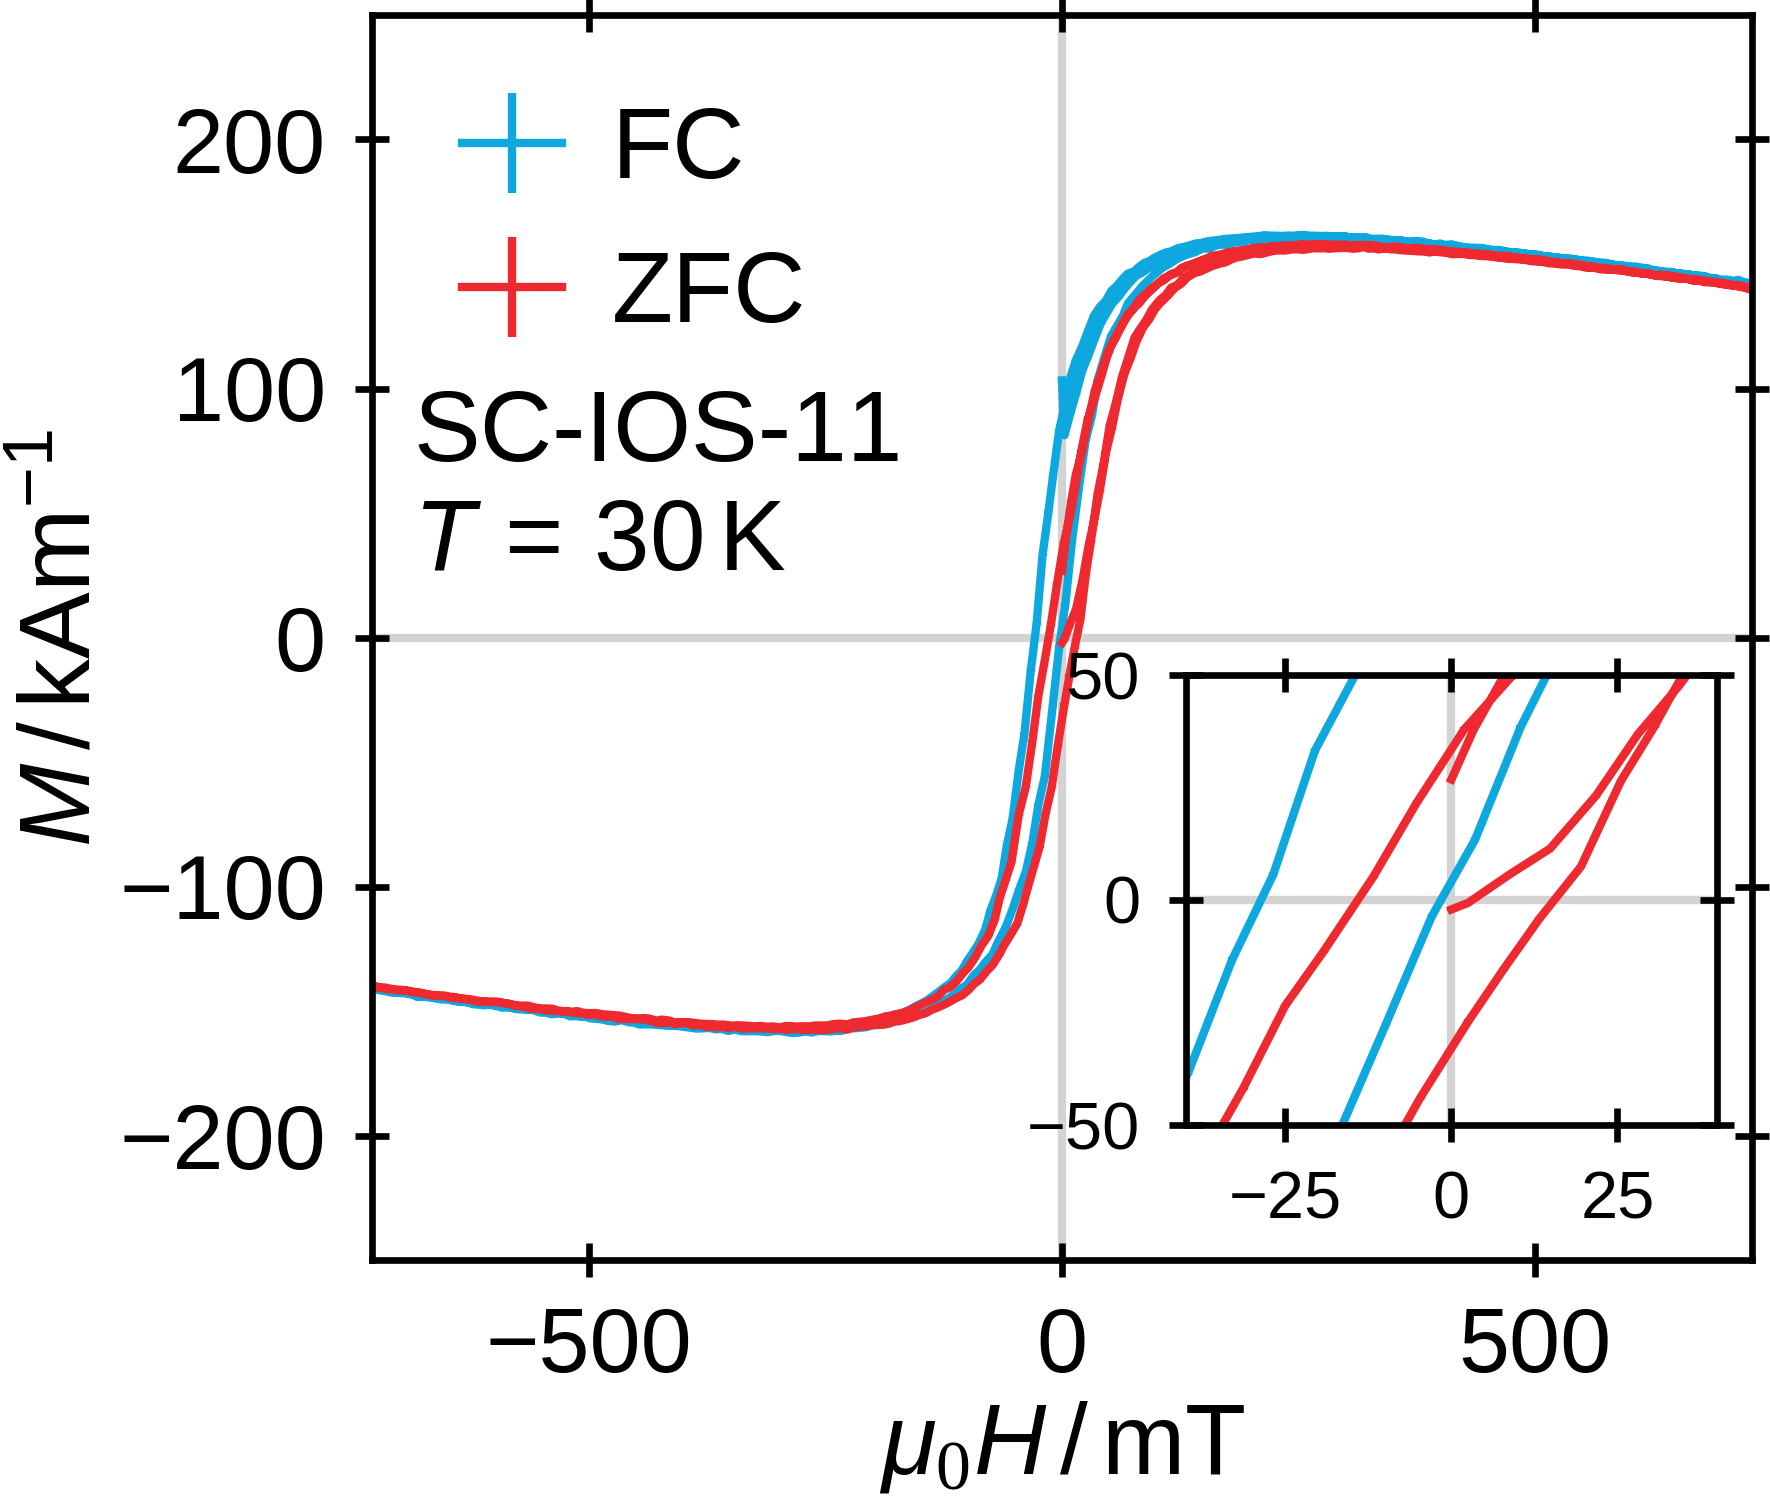
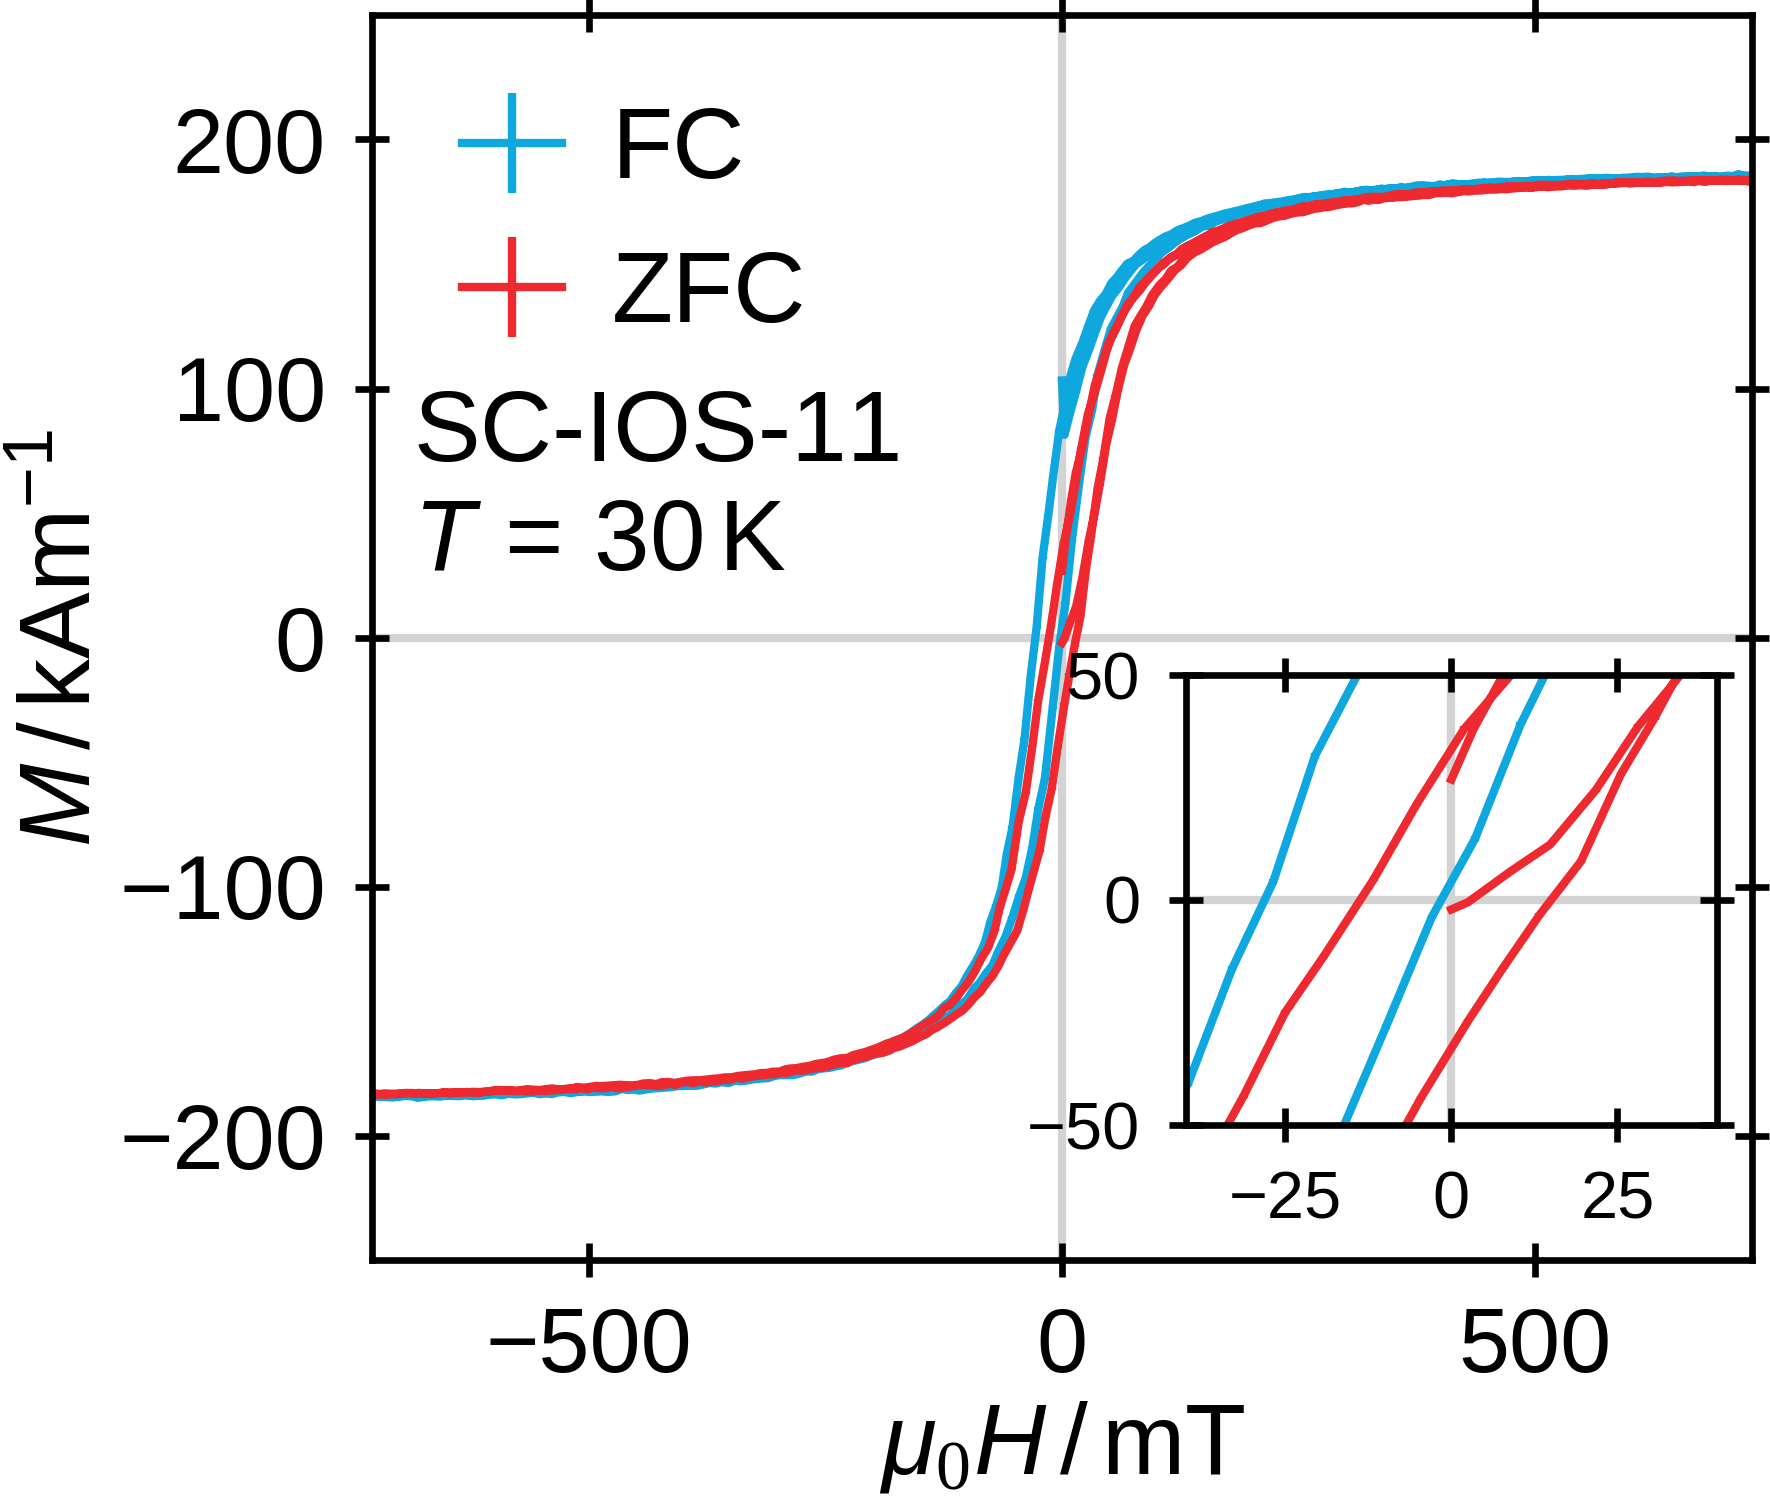
Wrote up to VSM

diff --git a/chapters/looselyPackedNS/structure/vsm/vsm.tex b/chapters/looselyPackedNS/structure/vsm/vsm.tex
@@ -9,38 +9,26 @@
     \caption{\label{fig:looselyPackedNP:layer:vsm}Room temperature vibrating sample magnetometry for SC-IOS-11 (left) and SC-IOS-7 (right). In black a Langevin behaviour is fit and the parameters are given in \reftab{tab:looselyPackedNP:layer:vsm}}
   \end{figure}
 
-  Vibrating sample magnetometry is used to probe the macroscopic magnetization of IOS-11 and IOS-7.
-  The measured magnetization of a dispersion at room temperature is shown in \reffig{fig:looselyPackedNP:nanoparticle:vsm}.
-  In both cases a superparamagnetic behaviour is observed, which is parametrized by fitting the data with a Langevin curve and excess susceptibility.
-  The parameters for the fitted magnetization curves are given in \reftab{tab:looselyPackedNP:nanoparticle:vsm}.
+  For the magnetic properties of the loosely packed nanospheres, vibrating sample magnetometry provides a method to study the the macroscopic magnetization of SC-IOS-11 and SC-IOS-7.
+  The field-dependent magnetization of both samples at room temperature is shown in \reffig{fig:looselyPackedNP:layer:vsm}.
+  In both cases a superparamagnetic behaviour is observed with no excess susceptibility.
+  The magnetization are well described by a Langevin curve with the parameters given in \reftab{tab:looselyPackedNP:layer:vsm}.
 
   \begin{table}[!htbp]
     \centering
-    \caption{\label{tab:looselyPackedNP:layer:vsm}Parameters for the Langevin function shown in \reffig{fig:looselyPackedNP:nanoparticle:vsm}.}
+    \caption{\label{tab:looselyPackedNP:layer:vsm}Parameters for the Langevin function shown in \reffig{fig:looselyPackedNP:layer:vsm}, with $\mu$ the magnetic moment and $M_s$ the spontaneous magnetization. Additionally given is the magnetic moment determined for the nanospheres in dispersion $\mu_\mathrm{disp.}$ in \refsec{sec:looselyPackedNS:nanoparticle:vsm}.}
     \begin{tabular}{ c | l | l }
       \rule{0pt}{2ex} \textbf{VSM \@ 300K} & SC-IOS-11 & SC-IOS-7 \\
       \hline
-      \rule{0pt}{2ex} $M_s \, /  \unit{kAm^{-1}}$               & $192.4(1)$    & $219.8(3)$\\
-      \rule{0pt}{2ex} $\mu \, / \, \mu_B$                       & $13650(46)$   & $4374(16)$\\
+      \rule{0pt}{2ex} $\mu \, / \, \mu_B$           & $13650(46)$   & $4374(16)$\\
+      \rule{0pt}{2ex} $M_s \, /  \unit{kAm^{-1}}$   & $192.4(1)$    & $219.8(3)$\\
       \hline
-      \rule{0pt}{2ex} $\chi^2$                                  & $8.5 $        & $7.8$\\
+      $\mu_\mathrm{disp.} \, / \, \mu_B$            & $11354(58)$   & $3609(8)$\\
       \hline
     \end{tabular}
   \end{table}
-
-  % \rule{0pt}{2ex} $V_\mathrm{rescale} \, / \unit{\musf L}$  & $0.0610$      & $0.0181$\\
-  % \hline
-
-  % The observed saturation magnetization can be compared to the values obtained from SANSPOL.
-  % For IOS-11, VSM yields a magnetization of $164 \unit{kA m^{-1}}$ and from SANSPOL an average particle magnetization of $200(10)\unit{kA m^{-1}}$ has been observed.
-  % For IOS-7, in VSM a room temperature magnetization of $183 \unit{kA m^{-1}}$ is measured, and from SANSPOL $199\unit{kA m^{-1}}$ was obtained.
-  % The values from VSM are slightly smaller in comparison to SANSPOL but in a similar order of magnitude.
-  % A systematic error in the VSM value can be introduced from the scaling procedure of the magnetization to the particle size.
-  % To determine the particle magnetization in VSM, the measured data is rescaled according to the observed magnetic moment and by assuming for the magnetic particle volume the single particle volume that is obtained from SAXS.
-  % Thus, if the magnetic volume is actually smaller in the particle than the physical volume \eg because of a magnetically dead surface layer, the VSM values is a lower limit for the observable particle magnetization.
-
-  % The slightly larger paramagnetic excess susceptibility in IOS-11 that remains after the subtraction of the background diamagnetism hints to the w\"ustite phase within the nanoparticles.
-  % The signal is however too weak and in similar order of magnitude to the subtracted diamagnetic background ($\mu_0 \chi_\mathrm{bg} \eq -0.0031$) and it is therefore difficult to make quantitative claims on the w\"ustite content from the susceptibility.
+  The determined magnetic moment from the Langevin curve is in both cases approximately $20 \%$ larger than the magnetic moment obtained for the samples measured in dispersion in \refsec{sec:looselyPackedNS:nanoparticle:vsm}.
+  % For SC-IOS-11 it is possible that the nanospheres on the silicon substrate have oxidated partially in comparison to the nanospheres in dispersion and therefore a higher magnetization per particle is achieved, and for SC-IOS-7 the obtained value is still in agreement with the result from SANSPOL for IOS-7 (\refsec{sec:looselyPackedNS:nanoparticle:sas}).
 
   \begin{figure}[tb]
     \centering
@@ -49,6 +37,14 @@
     \caption{\label{fig:looselyPackedNP:layer:vsmZFCFC}Temperature dependent magnetization measured at $10 \unit{mT}$ after cooling in zero-field and at a field of $10 \unit{mT}$ for SC-IOS-11 (left) and SC-IOS-7 (right).}
   \end{figure}
 
+  Furthermore, temperature-dependent magnetization measurements of the spin-coated layers are shown in \reffig{fig:looselyPackedNP:layer:vsmZFCFC}.
+  The blocking temperature of SC-IOS-11 is determined from the ZFCw measurement to $102(1) \unit{K}$ and for SC-IOS-7 to $47(1) \unit{K}$.
+  For SC-IOS-7 the value is well in agreement with the blocking temperature measured for the nanospheres IOS-7 in dispersion (\refsec{sec:looselyPackedNS:nanoparticle:vsm}).
+  But for SC-IOS-11 the value is significantly increased in comparison to a blocking temperature of $95.5(5) \unit{K}$ obtained for IOS-11.
+
+  The increased magnetic moment and blocking temperature of SC-IOS-11 can either be the result from a coupling between the spheres, which could conceivable result in increased size of the coherent magnetic domains and a higher thermal energy required to turn the sample into the superparamagnetic phase.
+  Or it can be the result from a further progressed oxidation of the nanoparticles in the loosely packing on the silicon substrate in comparison to the nanospheres in organic dispersion.
+  Due to the ambiguity of the observation, the macroscopic magnetization measurement of the nanospheres are insufficient to conclude on magnetic nanoparticle interaction.
 
   \begin{figure}[tb]
     \centering
@@ -56,6 +52,13 @@
     \includegraphics{looselyPackedNP_VSM30K_SC-IOS-7}
     \caption{\label{fig:looselyPackedNP:layer:vsm30K}Temperature dependent magnetization measured at $10 \unit{mT}$ after cooling in zero-field and at a field of $10 \unit{mT}$ for SC-IOS-11 (left) and SC-IOS-7 (right).}
   \end{figure}
+  In a next step, polarized neutron reflectometry is therefore used to study the nanostructure magnetization with depth-resolution.
+  For the discussion of the reflectivity curves measured at low temperatures, the analogue measurements have been performed on the VSM in \reffig{fig:looselyPackedNP:layer:vsm30K}.
+  Both samples have been zero-field cooled and field cooled, before a hysteresis up to a field of $730 \unit{mT}$ is measured at $30 \unit{K}$.
+  In both cases a small hysteresis with a coercive field below $20 \unit{mT}$ is visible and the field cooled hysteresis is shifted with respect to the zero-field curve.
+  The shift is typically observed for magnetite nanoparticles from the oleate synthesis and comes from an exchange-bias effect that originates either from the core-shell structure of the nanospheres or also possibly between the anti-phase boundaries \cite{Wetterskog_2013_Anoma}.
+
+
 
 
   % At low temperatures the magnetization of IOS-11 and IOS-7 in \reffig{fig:looselyPackedNP:nanoparticle:vsm10} show a hysteretic behaviour, where IOS-11 has a coercive field of $40 \unit{mT}$ and IOS-7 a field of $25 \unit{mT}$.

diff --git a/chapters/looselyPackedNS/nanoparticles/vsm/vsm.tex b/chapters/looselyPackedNS/nanoparticles/vsm/vsm.tex
@@ -11,20 +11,18 @@
 
   Vibrating sample magnetometry is used to probe the macroscopic magnetization of IOS-11 and IOS-7.
   The measured magnetization of a dispersion at room temperature is shown in \reffig{fig:looselyPackedNP:nanoparticle:vsm}.
-  In both cases a superparamagnetic behaviour is observed, which is parametrized by fitting the data with a Langevin curve and excess susceptibility.
+  In both cases a superparamagnetic behaviour is observed, which is parameterized by fitting the data with a Langevin curve and excess susceptibility.
   The parameters for the fitted magnetization curves are given in \reftab{tab:looselyPackedNP:nanoparticle:vsm}.
 
   \begin{table}[!htbp]
     \centering
-    \caption{\label{tab:looselyPackedNP:nanoparticle:vsm}Parameters for the Langevin function with excess susceptibility shown in \reffig{fig:looselyPackedNP:nanoparticle:vsm}.}
+    \caption{\label{tab:looselyPackedNP:nanoparticle:vsm}Parameters for the Langevin function with excess susceptibility shown in \reffig{fig:looselyPackedNP:nanoparticle:vsm}. Here $\mu$ is the single-particle magnetic moment, $M_s$ the spontaneous magnetization of the material and $\chi$ the excess susceptibility.}
     \begin{tabular}{ c | l | l }
       \rule{0pt}{2ex} \textbf{VSM} & IOS-11 & IOS-7 \\
       \hline
-      \rule{0pt}{2ex} $M_s \, /  \unit{kAm^{-1}}$               & $164.1(1)$    & $183.2(1)$\\
       \rule{0pt}{2ex} $\mu \, / \, \mu_B$                       & $11354(58)$   & $3609(8)$\\
+      \rule{0pt}{2ex} $M_s \, /  \unit{kAm^{-1}}$               & $164.1(1)$    & $183.2(1)$\\
       \rule{0pt}{2ex} $\mu_0 \chi$                              & $0.00337(3)$  & $-0.00080(3)$\\
-      \hline
-      \rule{0pt}{2ex} $\chi^2$                                  & $4.8 $        & $3.3$\\
       \hline
     \end{tabular}
   \end{table}

diff --git a/data/looselyPackedNP/sc-ios-7/ppms/THESIS_vsm30K.py b/data/looselyPackedNP/sc-ios-7/ppms/THESIS_vsm30K.py
@@ -12,29 +12,28 @@ plt.style.use('phdthesis')
 
 import numpy as np
 
-from modelexp.data import XyemData
-from PPMS.ppms import PPMS
+from modelexp.data import XyeData
 
-datfile30K_fc = cwd+ '/rawdata/ES_S17_HYST_30K_FC.DAT'
-datfile30K_zfc = cwd+ '/rawdata/ES_S17_HYST_30K_ZFC.DAT'
+
+datfile30K_fc = cwd+ '/data_rescaling/SC-IOS-7_30K_FC_LangevinSAXSscaled.xye'
+datfile30K_zfc = cwd+ '/data_rescaling/SC-IOS-7_30K_ZFC_LangevinSAXSscaled.xye'
 
 chapter = 'looselyPackedNP'
 sample_name = 'SC-IOS-7'
 
 savefile = chapter + '_VSM30K_' + sample_name
 
-rescale_factor = 1828.206260347034
 def load_file(datfile):
-  ppms = PPMS()
-  ppms.load(datfile)
-  B, M = ppms.get_BM()
-  sM = ppms.get('M. Std. Err. (emu)')
+  data = XyeData()
+  data.loadFromFile(datfile, sort=False)
+  B, M, sM = data.getData()
   B *= 1000
   valid_point = sM > 0
   B = B[valid_point]
-  M = M[valid_point]*rescale_factor
-  sM = sM[valid_point]*rescale_factor
+  M = M[valid_point]
+  sM = sM[valid_point]
   return B, M, sM
+
 
 
 B_30Kfc, M_30Kfc, sM_30Kfc = load_file(datfile30K_fc)

diff --git a/data/looselyPackedNP/sc-ios-11/ppms/THESIS_vsm30K.py b/data/looselyPackedNP/sc-ios-11/ppms/THESIS_vsm30K.py
@@ -12,28 +12,25 @@ plt.style.use('phdthesis')
 
 import numpy as np
 
-from modelexp.data import XyemData
-from PPMS.ppms import PPMS
+from modelexp.data import XyeData
 
-datfile30K_fc = cwd+ '/rawdata/ES_S14_HYST_30K_FC.DAT'
-datfile30K_zfc = cwd+ '/rawdata/ES_S14_HYST_30K_ZFC.DAT'
+datfile30K_fc = cwd+ '/data_rescaling/SC-IOS-11_30K_FC_LangevinSAXSscaled.xye'
+datfile30K_zfc = cwd+ '/data_rescaling/SC-IOS-11_30K_ZFC_LangevinSAXSscaled.xye'
 
 chapter = 'looselyPackedNP'
 sample_name = 'SC-IOS-11'
 
 savefile = chapter + '_VSM30K_' + sample_name
 
-rescale_factor = 1216.680738955344
 def load_file(datfile):
-  ppms = PPMS()
-  ppms.load(datfile)
-  B, M = ppms.get_BM()
-  sM = ppms.get('M. Std. Err. (emu)')
+  data = XyeData()
+  data.loadFromFile(datfile, sort=False)
+  B, M, sM = data.getData()
   B *= 1000
   valid_point = sM > 0
   B = B[valid_point]
-  M = M[valid_point]*rescale_factor
-  sM = sM[valid_point]*rescale_factor
+  M = M[valid_point]
+  sM = sM[valid_point]
   return B, M, sM
 
 
